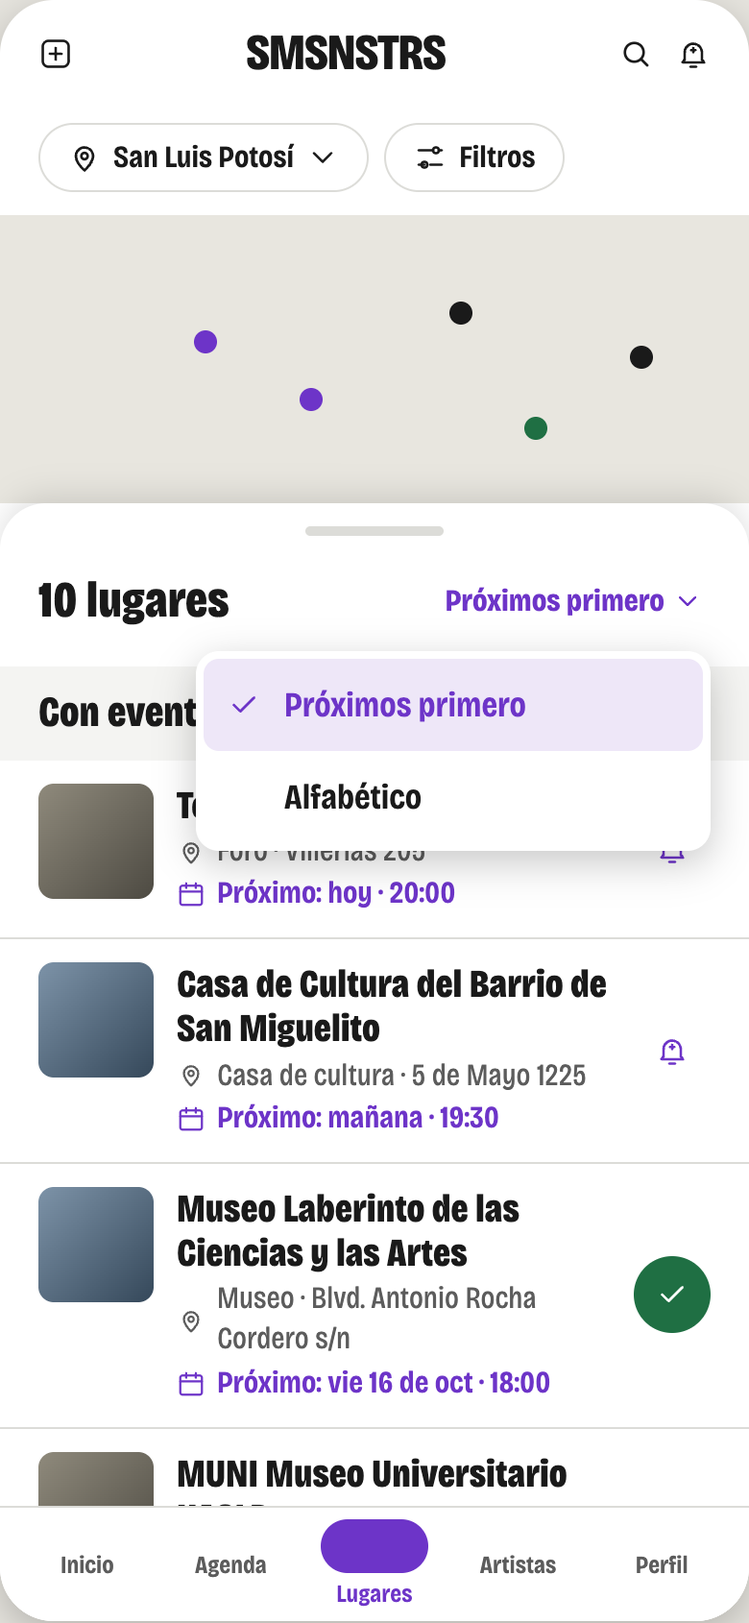
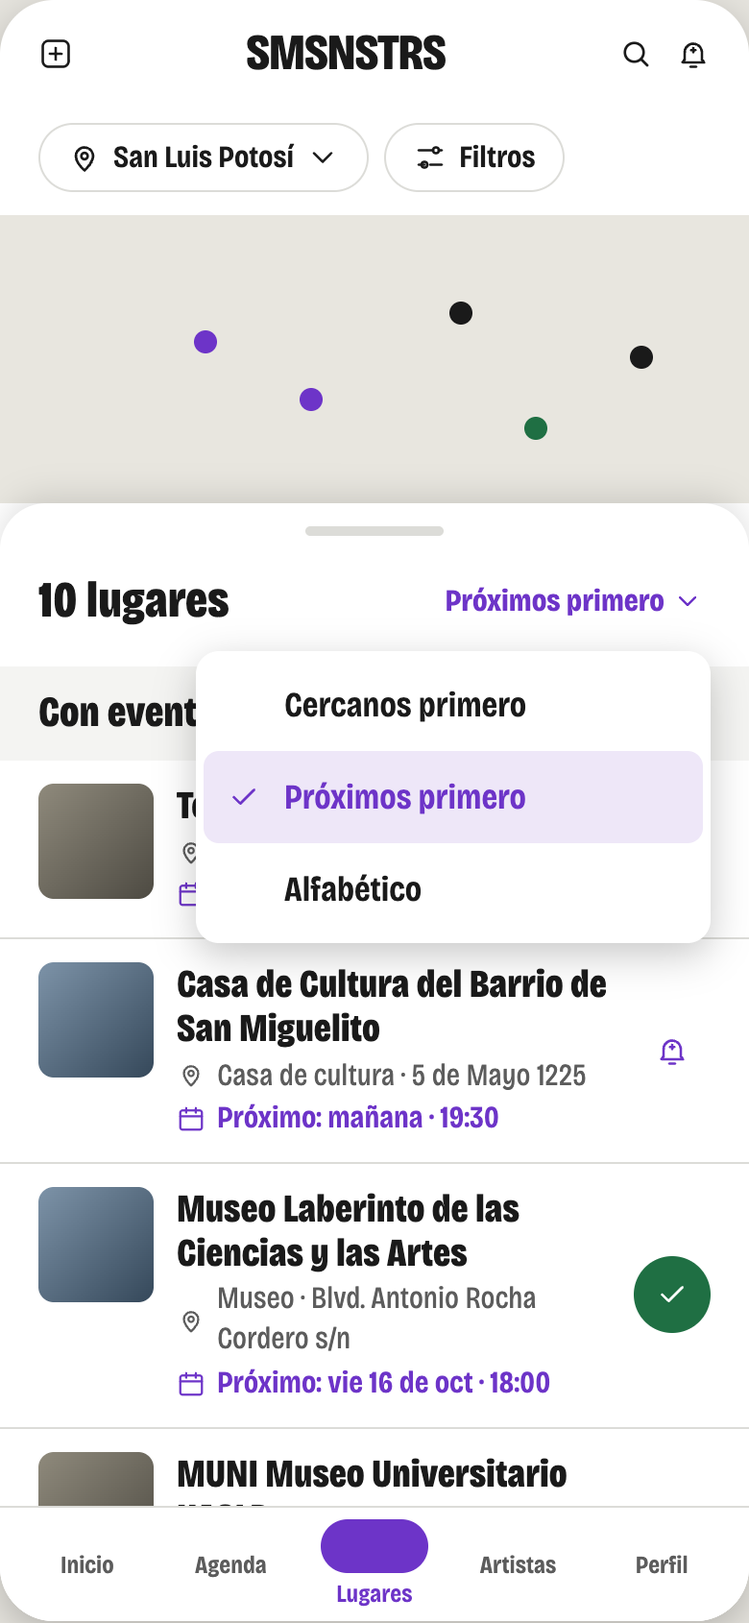
OL-399: «Cercanos primero» también sin ubicación, y elegirlo pide el permiso

Changed region(s): [[0.2462, 0.4308, 0.9538, 0.6154]]

diff --git a/docs/rediseno/prototipos/lugares-orden-propuestas.html b/docs/rediseno/prototipos/lugares-orden-propuestas.html
@@ -91,7 +91,15 @@ button { font: inherit; font-variation-settings: inherit; color: inherit; border
 .nav { position: absolute; left: 0; right: 0; bottom: 0; z-index: 3; display: grid; grid-template-columns: repeat(5, 1fr); height: var(--alto-nav); padding: 0 var(--espacio-2); background: var(--fondo); border-top: 1px solid var(--borde); font-size: var(--letra-2xs); font-weight: 600; color: var(--texto-suave); text-align: center; align-items: center; }
 .nav span.on { color: var(--primario); }
 .nav span.on::before { content: ""; display: block; width: 56px; height: 28px; margin: 0 auto 2px; border-radius: var(--radio-pildora); background: var(--primario); }
-.aviso-sin { margin: 0; padding: var(--espacio-2) var(--gutter); color: var(--texto-suave); font-size: var(--letra-xs); }
+.aviso-sin { margin: 0; padding: 0 var(--gutter) var(--espacio-2); color: var(--texto-suave); font-size: var(--letra-xs); }
+/* El permiso de ubicación: como lo pinta Safari en iPhone (simulado). */
+.permiso { position: absolute; inset: 0; z-index: 9; display: grid; place-items: center; background: rgba(0, 0, 0, 0.35); }
+.caja-permiso { width: 270px; border-radius: 14px; background: rgba(245, 245, 245, 0.96); color: #000; font: 400 13px / 1.3 -apple-system, BlinkMacSystemFont, "Helvetica Neue", Arial, sans-serif; text-align: center; overflow: hidden; }
+.caja-permiso b { display: block; padding: 18px 16px 2px; font-size: 17px; font-weight: 600; line-height: 1.25; }
+.caja-permiso p { margin: 0; padding: 0 16px 14px; }
+.botones-permiso { display: grid; border-top: 1px solid rgba(0, 0, 0, 0.2); }
+.botones-permiso button { min-height: 44px; font: inherit; font-size: 17px; color: #007aff; border-bottom: 1px solid rgba(0, 0, 0, 0.2); }
+.botones-permiso button:last-child { border-bottom: 0; font-weight: 600; }
 .marca { position: absolute; left: 0; right: 0; top: 0; height: 2px; background: var(--primario); opacity: 0; }
 
 /* ===== La hoja de ejercicios. ===== */
@@ -194,7 +202,7 @@ button { font: inherit; font-variation-settings: inherit; color: inherit; border
         <h2 id="t-como">Cómo se haría</h2>
         <ul class="notas">
           <li><b>Sin ubicación (O):</b> `agruparLugares` ordena «Con eventos» en dos tandas: primero los lugares cuyo próximo tiene hora (un evento, una sesión de taller, un acto), por fecha; luego los que solo tienen algo en curso de varios días (exposición, taller, festival), el que cierra antes primero. «Sin eventos próximos» sigue por nombre.</li>
-          <li><b>El desplegable (D, E):</b> junto a «N lugares», en la cabecera de la hoja. Con ubicación: «Cercanos primero» (lo de hoy), «Próximos primero» (el orden de arriba en «Con eventos»; la distancia sigue en cada renglón) y «Alfabético» (los dos grupos por nombre). Sin ubicación: «Próximos primero» y «Alfabético». La elección se guarda en el teléfono con la memoria de pantalla de Lugares (`useMemoriaPantalla`).</li>
+          <li><b>El desplegable (D, E):</b> junto a «N lugares», en la cabecera de la hoja, siempre con las tres opciones. «Cercanos primero» es lo de hoy con ubicación; sin ella, elegirlo pide el permiso por el mismo camino que el botón «Mi ubicación» (`puntoDeCercania`, `useUbicacionFresca`) y, concedido, ordena por distancia; negado, se queda en «Próximos primero» con una línea que lo dice. «Próximos primero» aplica el orden de arriba a «Con eventos» (la distancia sigue en cada renglón); «Alfabético», los dos grupos por nombre. La elección se guarda en el teléfono con la memoria de pantalla de Lugares (`useMemoriaPantalla`).</li>
           <li><b>El renglón con las dos cosas (R):</b> `conProximo` guarda por lugar lo próximo con hora y, aparte, lo que está en curso; `RenglonLugar` pinta lo que diga la opción elegida. Sin tablas nuevas ni migración: todo sale de la consulta de eventos que ya trae `/lugares`.</li>
         </ul>
       </section>
@@ -247,16 +255,16 @@ button { font: inherit; font-variation-settings: inherit; color: inherit; border
   const EJERCICIOS = [
     { clave: 'o', titulo: 'O · Sin ubicación: qué va primero en «Con eventos»', nota: 'Hoy ordena por la fecha de lo próximo, así que una expo abierta desde septiembre va antes que el concierto de mañana.',
       opciones: [['fecha', 'Por fecha (hoy)'], ['hora', 'Con hora primero'], ['cierre', 'En curso primero']], firma: 'Founder, 13 oct: «los eventos van antes que las expos cuando el usuario no tiene activa ubicación».' },
-    { clave: 'd', titulo: 'D · Dónde va el desplegable', nota: 'Con ubicación: «Cercanos primero» · «Próximos primero» · «Alfabético». Sin ubicación (propuesta del gestor): «Próximos primero» · «Alfabético». «Alfabético» ordena los dos grupos por nombre.',
-      opciones: [['ninguno', 'Ninguno (hoy)'], ['titulo', 'Cabecera «N lugares»'], ['grupo', 'Cabecera «Con eventos»'], ['chip', 'Chip junto a Filtros']], firma: 'Founder, 13 oct: «el dropdown debe [ir] con la cantidad de lugares, agrega por orden alfabético también».' },
+    { clave: 'd', titulo: 'D · Dónde va el desplegable', nota: 'Las mismas tres opciones con o sin ubicación: «Cercanos primero» · «Próximos primero» · «Alfabético». Sin ubicación, «Cercanos primero» pide el permiso (en el teléfono de la izquierda, tócalo). «Alfabético» ordena los dos grupos por nombre, sin mezclarlos.',
+      opciones: [['ninguno', 'Ninguno (hoy)'], ['titulo', 'Cabecera «N lugares»'], ['grupo', 'Cabecera «Con eventos»'], ['chip', 'Chip junto a Filtros']], firma: 'Founder, 13 oct: «el dropdown debe [ir] con la cantidad de lugares, agrega por orden alfabético también»; «agregar cercanos primero aunque no tenga activa ubicación, pero que eso haga que se active».' },
     { clave: 'e', titulo: 'E · Qué dicen sus opciones', nota: 'El letrero corto que pediste, las frases largas o solo la palabra.',
       opciones: [['firmadas', '«Cercanos primero» · «Próximos primero»'], ['largas', '«Más cercanos primero» · «Eventos próximos primero»'], ['cortas', '«Cerca» · «Pronto»']], firma: 'Founder, 13 oct: «cortemos el letrero: Cercanos primero, Próximos primero».' },
     { clave: 'r', titulo: 'R · Un lugar con expo abierta y evento con hora (el MUNI)', nota: 'Hoy dice lo primero por fecha: la expo. Qué debe decir el renglón.',
       opciones: [['primero', 'Lo primero por fecha (la expo)'], ['hora', 'El evento con hora'], ['dos', 'Las dos líneas']] },
   ];
   const LLAVE_ESTADO = 'ol399:estado';
-  let estado = { ...PROPUESTA, orden: 'cerca', ordenSin: 'pronto', menu: false };
-  try { const g = JSON.parse(localStorage.getItem(LLAVE_ESTADO) || 'null'); if (g && typeof g === 'object') estado = { ...estado, ...g, menu: false }; } catch {}
+  let estado = { ...PROPUESTA, orden: 'cerca', ordenSin: 'pronto', menu: false, ubicacionSin: false, pidiendo: false, avisoSin: '' };
+  try { const g = JSON.parse(localStorage.getItem(LLAVE_ESTADO) || 'null'); if (g && typeof g === 'object') estado = { ...estado, ...g, menu: false, pidiendo: false, avisoSin: '' }; } catch {}
   const guardar = () => { try { localStorage.setItem(LLAVE_ESTADO, JSON.stringify(estado)); } catch {} };
   const preset = () => (['o','d','e','r'].every((k) => estado[k] === HOY[k]) ? 'hoy' : ['o','d','e','r'].every((k) => estado[k] === PROPUESTA[k]) ? 'propuesta' : null);
 
@@ -287,11 +295,13 @@ button { font: inherit; font-variation-settings: inherit; color: inherit; border
     const con = LUGARES.filter((l) => l.hora || l.curso);
     const sin = LUGARES.filter((l) => !l.hora && !l.curso);
     const hay = estado.d !== 'ninguno';
-    const elegido = conUbicacion ? (hay ? estado.orden : 'cerca') : hay && estado.ordenSin === 'abc' ? 'abc' : 'pronto';
-    const modoCon = elegido === 'abc' ? 'abc' : conUbicacion ? (elegido === 'pronto' ? 'hora' : 'cerca') : estado.o;
+    const ubic = conUbicacion || estado.ubicacionSin;
+    let elegido = conUbicacion ? (hay ? estado.orden : 'cerca') : hay ? estado.ordenSin : 'pronto';
+    if (!ubic && elegido === 'cerca') elegido = 'pronto'; // sin permiso todavía: se queda como estaba
+    const modoCon = elegido === 'abc' ? 'abc' : elegido === 'cerca' ? 'cerca' : ubic ? 'hora' : estado.o;
     return [
       { titulo: 'Con eventos', lista: ordenarCon(con, modoCon) },
-      { titulo: 'Sin eventos próximos', lista: conUbicacion && elegido !== 'abc' ? [...sin].sort((a, b) => a.km - b.km) : [...sin].sort(porNombre) },
+      { titulo: 'Sin eventos próximos', lista: ubic && elegido !== 'abc' ? [...sin].sort((a, b) => a.km - b.km) : [...sin].sort(porNombre) },
     ];
   }
   const kmTexto = (km) => (km < 1 ? `a ${Math.round(km * 1000)} m` : `a ${km.toFixed(1).replace('.', ',')} km`);
@@ -301,7 +311,7 @@ button { font: inherit; font-variation-settings: inherit; color: inherit; border
   function desplegable(donde, conUbicacion) {
     if (estado.d !== donde) return '';
     const E = etiquetas();
-    const claves = conUbicacion ? ['cerca', 'pronto', 'abc'] : ['pronto', 'abc'];
+    const claves = ['cerca', 'pronto', 'abc'];
     const elegido = conUbicacion ? estado.orden : estado.ordenSin;
     const abierto = estado.menu === (conUbicacion ? 'con' : 'sin');
     return `<div class="orden${donde === 'chip' ? ' chip-orden' : ''}"><button type="button" class="orden-boton" aria-haspopup="menu" aria-expanded="${abierto}">${esc(E[elegido])}${I.caret}</button>
@@ -315,18 +325,31 @@ button { font: inherit; font-variation-settings: inherit; color: inherit; border
   function pintar(el, conUbicacion) {
     const G = grupos(conUbicacion);
     const total = LUGARES.length;
+    const ubic = conUbicacion || estado.ubicacionSin;
+    const dialogo = !conUbicacion && estado.pidiendo ? `<div class="permiso"><div class="caja-permiso"><b>«somosnosotros.org» quiere usar tu ubicación</b><p>Para ordenar los lugares por cercanía.</p><div class="botones-permiso"><button type="button" data-permiso="si">Permitir mientras uso la app</button><button type="button" data-permiso="no">No permitir</button></div></div></div>` : '';
     el.innerHTML = `
       <div class="cab">${I.mas}<span class="logo">SMSNSTRS</span>${I.lupa}${I.campana}</div>
       <div class="contexto"><span class="chip">${I.pin}San Luis Potosí ${I.caret}</span><span class="chip">${I.filtros}Filtros</span>${desplegable('chip', conUbicacion)}</div>
-      <div class="mapa"><i class="v" style="left:26%;top:40%"></i><i class="v" style="left:40%;top:60%"></i><i style="left:60%;top:30%"></i><i class="ok" style="left:70%;top:70%"></i><i style="left:84%;top:45%"></i>${conUbicacion ? '<span class="yo"></span>' : ''}</div>
+      <div class="mapa"><i class="v" style="left:26%;top:40%"></i><i class="v" style="left:40%;top:60%"></i><i style="left:60%;top:30%"></i><i class="ok" style="left:70%;top:70%"></i><i style="left:84%;top:45%"></i>${ubic ? '<span class="yo"></span>' : ''}</div>
       <div class="hoja-lista"><span class="asa-l"></span>
         <div class="titulo-lista"><h2>${total} lugares</h2>${desplegable('titulo', conUbicacion)}</div>
-        <div class="lista">${G.map((g) => `<div class="grupo"><h3>${esc(g.titulo)} <small>· ${g.lista.length}</small></h3>${g.titulo === 'Con eventos' ? desplegable('grupo', conUbicacion) : ''}</div><ul>${g.lista.map((l) => renglon(l, conUbicacion)).join('')}</ul>`).join('')}</div>
+        ${!conUbicacion && estado.avisoSin ? `<p class="aviso-sin">${esc(estado.avisoSin)}</p>` : ''}
+        <div class="lista">${G.map((g) => `<div class="grupo"><h3>${esc(g.titulo)} <small>· ${g.lista.length}</small></h3>${g.titulo === 'Con eventos' ? desplegable('grupo', conUbicacion) : ''}</div><ul>${g.lista.map((l) => renglon(l, ubic)).join('')}</ul>`).join('')}</div>
       </div>
-      <nav class="nav"><span>Inicio</span><span>Agenda</span><span class="on">Lugares</span><span>Artistas</span><span>Perfil</span></nav>`;
+      <nav class="nav"><span>Inicio</span><span>Agenda</span><span class="on">Lugares</span><span>Artistas</span><span>Perfil</span></nav>${dialogo}`;
+    el.querySelectorAll('[data-permiso]').forEach((b) => b.addEventListener('click', () => {
+      if (b.dataset.permiso === 'si') Object.assign(estado, { ubicacionSin: true, pidiendo: false, avisoSin: '' });
+      else Object.assign(estado, { ordenSin: 'pronto', pidiendo: false, avisoSin: 'Sin tu ubicación no hay cercanos: siguen los próximos primero.' });
+      guardar(); pintarTodo();
+    }));
     const cual = conUbicacion ? 'con' : 'sin';
     el.querySelector('.orden-boton')?.addEventListener('click', () => { estado.menu = estado.menu === cual ? false : cual; pintarTodo(); });
-    el.querySelectorAll('[data-orden]').forEach((b) => b.addEventListener('click', () => { estado[conUbicacion ? 'orden' : 'ordenSin'] = b.dataset.orden; estado.menu = false; guardar(); pintarTodo(); }));
+    el.querySelectorAll('[data-orden]').forEach((b) => b.addEventListener('click', () => {
+      estado[conUbicacion ? 'orden' : 'ordenSin'] = b.dataset.orden; estado.menu = false; estado.avisoSin = '';
+      // Sin ubicación, «Cercanos primero» pide el permiso (founder, 13 oct: «que eso haga que se active»).
+      if (!conUbicacion && b.dataset.orden === 'cerca' && !estado.ubicacionSin) estado.pidiendo = true;
+      guardar(); pintarTodo();
+    }));
   }
 
   // ===== La hoja.
@@ -353,9 +376,10 @@ button { font: inherit; font-variation-settings: inherit; color: inherit; border
   }
   const PORQUE = {
     hoy: 'Hoy: «Con eventos» va por la fecha de lo próximo, así que el MUNI (expo abierta desde septiembre) sale antes que el Teatro de la Paz (hoy a las 20:00); con ubicación no hay forma de pedir otro orden.',
-    propuesta: 'Propuesta: sin ubicación, lo que tiene hora va primero y por fecha (Teatro de la Paz hoy, San Miguelito mañana…) y lo en curso cierra el grupo, el que termina antes primero; el desplegable va junto a «10 lugares»: con ubicación «Cercanos primero» (por defecto) · «Próximos primero» · «Alfabético», y sin ubicación «Próximos primero» · «Alfabético»; la elección se recuerda. El MUNI dice sus dos cosas: la charla del 24 y la expo hasta el 8 de nov.',
+    propuesta: 'Propuesta: sin ubicación, lo que tiene hora va primero y por fecha (Teatro de la Paz hoy, San Miguelito mañana…) y lo en curso cierra el grupo, el que termina antes primero; el desplegable va junto a «10 lugares» con «Cercanos primero» · «Próximos primero» · «Alfabético»; con ubicación arranca en cercanos y sin ella en próximos, y pedir cercanos pide el permiso; la elección se recuerda. El MUNI dice sus dos cosas: la charla del 24 y la expo hasta el 8 de nov.',
   };
   function pintarTodo() {
+    $('etiqueta-sin').innerHTML = estado.ubicacionSin ? '<b>Sin ubicación</b> · eligió «Cercanos primero» y dio permiso' : '<b>Sin ubicación</b> · el orden de «Con eventos»';
     pintar($('tel-sin'), false);
     pintar($('tel-con'), true);
     pintarEjercicios();
@@ -366,7 +390,7 @@ button { font: inherit; font-variation-settings: inherit; color: inherit; border
     $('porque').textContent = p ? PORQUE[p] : 'Combinación propia: compara con «Hoy» y «Propuesta» arriba.';
     requestAnimationFrame(medir);
   }
-  document.querySelectorAll('[data-preset]').forEach((b) => b.addEventListener('click', () => { Object.assign(estado, b.dataset.preset === 'hoy' ? HOY : PROPUESTA, { menu: false, orden: 'cerca', ordenSin: 'pronto' }); guardar(); pintarTodo(); }));
+  document.querySelectorAll('[data-preset]').forEach((b) => b.addEventListener('click', () => { Object.assign(estado, b.dataset.preset === 'hoy' ? HOY : PROPUESTA, { menu: false, orden: 'cerca', ordenSin: 'pronto', ubicacionSin: false, pidiendo: false, avisoSin: '' }); guardar(); pintarTodo(); }));
   const abrir = (si) => { $('hoja').classList.toggle('abierta', si); $('velo').classList.toggle('visible', si); $('fab').setAttribute('aria-expanded', String(si)); if (si) $('hoja-titulo').focus(); };
   $('fab').addEventListener('click', () => abrir(true));
   $('cerrar-hoja').addEventListener('click', () => abrir(false));

diff --git a/docs/ops/OPEN_LOOPS.md b/docs/ops/OPEN_LOOPS.md
@@ -24,7 +24,7 @@
 
 ## Ahora
 
-- **OL-399 · Prototipo: el orden de «Con eventos» y el desplegable con ubicación en Lugares (2026-10-13).** Founder, tras OL-398: «Los eventos van antes que las expos cuando el usuario no tiene activa ubicación, y facilitar que usuario elija entre los mas cercanos primero y eventos próximos primero usando dropdown en la cabecera de listado de eventos del mapa, para cuando tiene activa la ubicación». Gestor VI, rama `lugares-orden-propuestas`, bitácora [430](../bitacora/2026/10/430-lugares-orden-propuestas.md), capturas-430, solo documentación. Página `lugares-orden-propuestas.html`: dos teléfonos (sin y con ubicación), preajustes Hoy · Propuesta, cuatro ejercicios: O orden sin ubicación (por fecha · con hora primero · en curso primero), D dónde va el desplegable y qué ofrece (ninguno · cabecera «N lugares» · cabecera «Con eventos» · chip junto a Filtros; con ubicación cercanos · próximos · alfabético, sin ubicación próximos · alfabético), E sus palabras («Cercanos primero» · «Próximos primero», largas, cortas), R el renglón con expo abierta y evento con hora (la expo · el evento · las dos líneas). Propuesta: O con hora primero · D cabecera «N lugares» con «Alfabético» (founder, 13 oct: «el dropdown debe [ir] con la cantidad de lugares, agrega por orden alfabético también») · E «Cercanos primero» / «Próximos primero» (founder: «cortemos el letrero») · R las dos líneas; la elección se recuerda con la memoria de pantalla. Esperan firma O y R, y si el desplegable sale también sin ubicación.
+- **OL-399 · Prototipo: el orden de «Con eventos» y el desplegable con ubicación en Lugares (2026-10-13).** Founder, tras OL-398: «Los eventos van antes que las expos cuando el usuario no tiene activa ubicación, y facilitar que usuario elija entre los mas cercanos primero y eventos próximos primero usando dropdown en la cabecera de listado de eventos del mapa, para cuando tiene activa la ubicación». Gestor VI, rama `lugares-orden-propuestas`, bitácora [430](../bitacora/2026/10/430-lugares-orden-propuestas.md), capturas-430, solo documentación. Página `lugares-orden-propuestas.html`: dos teléfonos (sin y con ubicación), preajustes Hoy · Propuesta, cuatro ejercicios: O orden sin ubicación (por fecha · con hora primero · en curso primero), D dónde va el desplegable y qué ofrece (ninguno · cabecera «N lugares» · cabecera «Con eventos» · chip junto a Filtros; siempre cercanos · próximos · alfabético; sin ubicación, cercanos pide el permiso), E sus palabras («Cercanos primero» · «Próximos primero», largas, cortas), R el renglón con expo abierta y evento con hora (la expo · el evento · las dos líneas). Propuesta: O con hora primero · D cabecera «N lugares» con «Alfabético» (founder, 13 oct: «el dropdown debe [ir] con la cantidad de lugares, agrega por orden alfabético también») · E «Cercanos primero» / «Próximos primero» (founder: «cortemos el letrero») · R las dos líneas; la elección se recuerda con la memoria de pantalla. Founder, 12:05: «agregar cercanos primero aunque no tenga activa ubicación, pero que eso haga que se active». Esperan firma O y R.
 - **OL-398 · «Exposición hasta el …» en la lista de Lugares (2026-10-13).** Founder, con captura del iPhone: «el mapa presenta Muni Museo como próximo cuando ya pasó… los lugares que tienen expos o talleres activas que digan eso en el listado de mapa, me gusta que pones hasta cuando terminan». Gestor VI, rama `lugares-en-curso`, bitácora [429](../bitacora/2026/10/429-lugares-en-curso.md), capturas-429, sin migración. `textoProximo`: una exposición, un taller o un festival ya en curso dicen «Exposición hasta el dom 8 de nov» (la palabra corta de su clase y su día de cierre); una exposición o un festival por abrir, sus días («Exposición del 16 al 30 de oct»); lo demás sigue «Próximo: …». Las consultas del próximo de cada lugar traen `clase` (y `fin`). Pendiente de decidir: si un lugar con exposición abierta y concierto el viernes debe decir el concierto.
 - **OL-396 · La «Presentación» del artista y el «Informe de actividad» del lugar en PDF, pieza 4 de 5 del historial (2026-10-12).** Lo firmado por el founder la noche del 12 en `curriculo-propuestas.html` (OL-395, bitácora 426), tal como la propuesta: T presentación · F carta · E sobrio · R1 · R2 reciente · R3 · R4 · I1 mes (año y todo en la hoja) · I2 lista · I3 · Q solo quien gestiona · O junto a «Tu año» · X solo PDF. Rama `curriculo-pdf`, bitácora [427](../bitacora/2026/10/427-curriculo-pdf.md), capturas-427, sin migración ni tablas nuevas ni librerías nuevas. Lo que dice (`lib/documentos`, 14 pruebas): el artista, su reseña y redes, la trayectoria por año de lo más reciente a lo más viejo (fecha y hora o rango, lugar, «parte de {festival}», «con A y B», «N dijeron «Voy»»; lo cancelado tachado con «SE CANCELÓ» y sin contar), «Lugares» y «Ha tocado con», «Próximas fechas»; el lugar, el periodo (mes en curso, año o todo, por el día de inicio en su zona) con actividades registradas (un festival marco no se suma si sus actos están en el periodo; una expo y un taller con sesiones cuentan una vez), realizadas, artistas participantes y dijeron «Voy», cada una con su definición tal cual el prototipo, la lista y «Artistas que pasaron». Las páginas (`carteles/plantillas/documento.tsx`, 11 pruebas): el CSS del prototipo × 1,5625 a 150 ppp (carta 1275 × 1650, A4 1240 × 1754), todo medido antes de dibujar y repartido en páginas con la cabecera completa en la primera y la corta («página 2 de 3») en las demás, sin rótulos solos al pie; una sola letra, la negra condensada. El PDF (`lib/pdfDeImagenes`, 5 pruebas): una página por JPEG con `/DCTDecode`, la `xref` con los desplazamientos reales; abre en el visor de Chrome; el texto no se selecciona. Ruta `/api/documento?que=artista|lugar&id=&formato=carta|a4&periodo=mes|anio|todo` con el permiso de «Tu año» (autor, cuenta ligada o administración; a cualquier otro 404), `application/pdf`, `presentacion-feleal.pdf` / `informe-ache-galeria-2026-10.pdf`, caché de un día con `v` (5 pruebas). En la app: al final de «Trayectoria» y de «Historial», para quien gestiona y con algo pasado, la fila «Tu año» · «Presentación» / «Informe» (`IconoDocumento`); la hoja (`ui/Hoja`) con la ayuda y sus páginas, el periodo (Octubre · 2026 · Todo), Carta / A4, «Preparar una reseña · Pronto» apagado y «Descargar PDF» anclado: la hoja de compartir con el archivo donde se puede, si no descarga. `documento` medido con `que` y `medio` (dos datos: el tipo sale de `que`). Lint, typecheck, 3 805 pruebas, build, inventario (342/342) y medir (38 × 4, sin novedades) en verde; 12 capturas, cero errores de página, ni una lectura a producción. Falta que el founder confirme la letra única en el documento, «SE CANCELÓ» sobre el título y el PDF de imágenes; y el «publica».
 - **OL-397 · El banner para compartir, para todo el mundo desde el primer día (2026-10-12).** Founder, al no verlo: «Ok mejor que lo vea todos siempre. Luego volvemos a este criterio de 3 días». Gestor VI, rama `banner-para-todos`, bitácora [428](../bitacora/2026/10/428-banner-para-todos.md), sin migración. `DIAS_PARA_BANNER` pasa de 3 a 1 (el conteo de días sigue, para volver al criterio con un número) e Inicio monta el banner con o sin sesión. La × (30 días) y «tras compartir no vuelve» siguen. Pruebas ajustadas (3 761 en verde, 16 de componentes).

diff --git a/docs/bitacora/2026/10/430-lugares-orden-propuestas.md b/docs/bitacora/2026/10/430-lugares-orden-propuestas.md
@@ -16,7 +16,7 @@ Hoy (con OL-398) «Con eventos» va por la fecha de lo próximo de cada lugar: u
 | Ejercicio | Opciones | Propuesta |
 |---|---|---|
 | **O** · sin ubicación, qué va primero en «Con eventos» | por fecha (hoy) · con hora primero · en curso primero | **con hora primero**, por fecha; después lo en curso, el que cierra antes primero |
-| **D** · dónde va el desplegable y qué ofrece | ninguno (hoy) · cabecera «N lugares» · cabecera «Con eventos» · chip junto a Filtros | **cabecera «N lugares»** (founder, 11:50: «el dropdown debe [ir] con la cantidad de lugares, agrega por orden alfabético también»). Con ubicación: «Cercanos primero» · «Próximos primero» · «Alfabético»; sin ubicación (añadido del gestor, por confirmar): «Próximos primero» · «Alfabético». «Alfabético» ordena los dos grupos por nombre |
+| **D** · dónde va el desplegable y qué ofrece | ninguno (hoy) · cabecera «N lugares» · cabecera «Con eventos» · chip junto a Filtros | **cabecera «N lugares»** (founder, 11:50: «el dropdown debe [ir] con la cantidad de lugares, agrega por orden alfabético también»). Las tres opciones con o sin ubicación: «Cercanos primero» · «Próximos primero» · «Alfabético»; sin ubicación, «Cercanos primero» pide el permiso (founder, 12:05: «agregar cercanos primero aunque no tenga activa ubicación, pero que eso haga que se active»). «Alfabético» ordena los dos grupos por nombre, sin mezclarlos (duda del founder, 12:00) |
 | **E** · qué dicen sus opciones | «Cercanos primero» · «Próximos primero» / «Más cercanos primero» · «Eventos próximos primero» / «Cerca» · «Pronto» | **«Cercanos primero» · «Próximos primero»**: el founder, a las 11:45, al ver la página: «cortemos el letrero: Cercanos primero, Próximos primero» |
 | **R** · el renglón de un lugar con expo abierta y evento con hora | lo primero por fecha (la expo) · el evento con hora · las dos líneas | **las dos líneas**: «Próximo: sáb 24 de oct · 12:00» y «Exposición hasta el dom 8 de nov» |
 
@@ -25,7 +25,7 @@ Medidor: cuántos de los cinco primeros de «Con eventos» tienen hora (sin ubic
 ## Capturas (`docs/rediseno/capturas-430/`, Chrome real, 390×844 a 2×)
 
 - `01-hoy-sin-ubicacion.png` y `02-hoy-con-ubicacion.png`: lo de hoy; ACHE (taller) y MUNI (expo) encabezan «Con eventos», el Teatro de la Paz (hoy 20:00) va cuarto.
-- `03-propuesta-sin-ubicacion.png`: Teatro de la Paz (hoy), San Miguelito (mañana), Laberinto (vie 16), MUNI (sáb 24)…; lo en curso al final del grupo; `03b-…-menu.png`, su desplegable con «Próximos primero» y «Alfabético»; `03c-…-alfabetico.png`, los dos grupos por nombre.
+- `03-propuesta-sin-ubicacion.png`: Teatro de la Paz (hoy), San Miguelito (mañana), Laberinto (vie 16), MUNI (sáb 24)…; lo en curso al final del grupo; `03b-…-menu.png`, su desplegable con las tres opciones; `03c-…-alfabetico.png`, los dos grupos por nombre; `03d-…-pide-cercanos-permiso.png`, al elegir «Cercanos primero» sin ubicación, el permiso de Safari (simulado); `03e-…-permiso-dado-cercanos.png`, concedido: punto azul, kilómetros y por cercanía; `03f-…-permiso-negado.png`, negado: sigue «Próximos primero» con una línea que lo dice.
 - `04-propuesta-con-ubicacion-cerca.png`: con ubicación, «Cercanos primero ⌄» junto a «10 lugares»; por distancia.
 - `05-propuesta-con-ubicacion-menu.png`: el menú abierto con las tres opciones y la marca en la elegida.
 - `06-propuesta-con-ubicacion-pronto.png`: «Próximos primero» puesto; el grupo cambia, los kilómetros siguen en cada renglón; `06b-…-alfabetico.png`, «Alfabético».
@@ -40,4 +40,4 @@ Medidor: cuántos de los cinco primeros de «Con eventos» tienen hora (sin ubic
 
 - `agruparLugares` recibe el modo («cerca» o «pronto») y, sin ubicación o con «pronto», ordena «Con eventos» en dos tandas: lo con hora por fecha, luego lo en curso por cierre.
 - `conProximo` guarda por lugar lo próximo con hora y, aparte, lo en curso; `RenglonLugar` pinta una o dos líneas. Todo sale de la consulta de eventos que ya trae `/lugares` (OL-398): sin tablas ni migración.
-- El desplegable vive en la cabecera de la hoja de Lugares, junto a «N lugares» (`VistaLugares`); con ubicación ofrece «Cercanos primero» · «Próximos primero» · «Alfabético» y sin ella «Próximos primero» · «Alfabético»; la elección se guarda con la memoria de pantalla de Lugares (`useMemoriaPantalla`) y vuelve a la primera opción en un teléfono nuevo.
+- El desplegable vive en la cabecera de la hoja de Lugares, junto a «N lugares» (`VistaLugares`); siempre con «Cercanos primero» · «Próximos primero» · «Alfabético»; sin ubicación, «Cercanos primero» pide el permiso por el camino del botón «Mi ubicación» (`puntoDeCercania`, `useUbicacionFresca`) y, negado, vuelve a «Próximos primero» con una línea; la elección se guarda con la memoria de pantalla de Lugares (`useMemoriaPantalla`) y vuelve a la primera opción en un teléfono nuevo.
